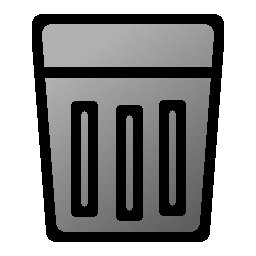
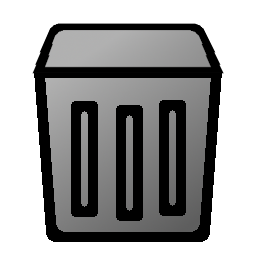
Updated requirements.py and added images

Changed region(s): [[0.125, 0.0312, 0.875, 0.2812]]

diff --git a/requirements.py b/requirements.py
@@ -1,22 +1,67 @@
-import sys, os, subprocess
+import sys, os, subprocess, re
 
-install_command = "{} -m pip install -r {}".format(
-    sys.executable,
-    os.environ.get("PyPI_REQUIREMENTS_PATH", os.path.realpath("requirements.txt"))
-)
+requirements_file_path = os.environ.get("PyPI_REQUIREMENTS_PATH", os.path.realpath("requirements.txt"))
 
-popen = subprocess.Popen(install_command,
-                         stdout=subprocess.PIPE,
-                         stderr=subprocess.PIPE,
-                         universal_newlines=True,
-                         shell=True)
+if not os.path.exists(requirements_file_path) or not os.path.isfile(requirements_file_path):
+    raise IOError("No requirements file was found at '{}'".format(requirements_file_path))
 
-for stdout_line in iter(popen.stdout.readline, ""):
-    if os.environ.get("PyPI_REQUIREMENTS_OUTPUT", "OFF").upper() == "ON": print(stdout_line, end="")
+requirements_file = open(requirements_file_path)
 
-for stdout_line in iter(popen.stderr.readline, ""):
-    if os.environ.get("PyPI_REQUIREMENTS_OUTPUT", "OFF").upper() == "ON": print(stdout_line, end="", file=sys.stderr)
+requirements_file_content = requirements_file.read()
+
+requirements_file.close()
+
+requirement_pattern = re.compile("^\\s*([A-z0-9.\\-_]+)\\s*(?:(==|<=|>=)\\s*((?:[0-9]+!)?[0-9]+(?:\\.[0-9]+)*(?:(?:a|b|rc)[0-9]+)?(?:\\.post[0-9]+)?(?:\\.dev[0-9]+)?)\\s*)?$", re.MULTILINE)
+
+requirements = requirement_pattern.findall(requirements_file_content)
+
+site_packages_folder = None
+
+for folder in sys.path:
+    if folder.endswith("site-packages"):
+        site_packages_folder = folder
+        break
+
+if not site_packages_folder:
+    raise IOError("site-packages folder not found")
+
+site_packages_dist_infos = tuple(filter(lambda x: x.endswith(".dist-info"), os.listdir(site_packages_folder)))
+
+installed_packages = {}
+
+for dist_info in site_packages_dist_infos:
+    dist_info = dist_info[:-len(".dist-info")]
+    dash_pos = dist_info.rindex("-")
+    version = dist_info[dash_pos + 1 : ]
+    package_name = dist_info[:dash_pos]
     
-popen.stdout.close()
+    installed_packages[package_name] = version
 
-popen.wait()
+need_to_run = False
+
+for package_name, operator, version in requirements:
+    if not package_name in installed_packages or (operator and version and installed_packages[package_name] != version):
+        need_to_run = True
+        break
+
+if need_to_run:
+    install_command = "{} -m pip install -r {}".format(
+        sys.executable,
+        requirements_file_path
+    )
+
+    popen = subprocess.Popen(install_command,
+                             stdout=subprocess.PIPE,
+                             stderr=subprocess.PIPE,
+                             universal_newlines=True,
+                             shell=True)
+
+    for stdout_line in iter(popen.stdout.readline, ""):
+        if os.environ.get("PyPI_REQUIREMENTS_OUTPUT", "OFF").upper() == "ON": print(stdout_line, end="")
+
+    for stdout_line in iter(popen.stderr.readline, ""):
+        if os.environ.get("PyPI_REQUIREMENTS_OUTPUT", "OFF").upper() == "ON": print(stdout_line, end="", file=sys.stderr)
+        
+    popen.stdout.close()
+
+    popen.wait()

diff --git a/irec_module/window.py b/irec_module/window.py
@@ -1028,7 +1028,12 @@ def edit_macro_dialog(mcr):
 
     def from_vk_code():
         global upscale
-        vk_code = string_to_vk_code(root.clipboard_get())
+        vk_code = None
+
+        try:
+            vk_code = string_to_vk_code(root.clipboard_get())
+        except:
+            pass
 
         if not vk_code:
             dialog_return = tkinter.StringVar()
@@ -1531,10 +1536,10 @@ def create_window():
     toolbar_frame = tkinter.Frame(frame)
     toolbar_frame.grid(column=1, row=0, columnspan=4)
 
-    record_macro_button = ttk.Button(toolbar_frame, command=record_macro_dialog, cursor=HAND_CURSOR)#ttk.Button(frame, text="Record macro", command=record_macro_dialog)
+    record_macro_button = ttk.Button(toolbar_frame, command=record_macro_dialog, takefocus=False, cursor=HAND_CURSOR)#ttk.Button(frame, text="Record macro", command=record_macro_dialog)
     record_macro_button.grid(column=0, row=0, padx=PADX * 2, pady=PADY)#, ipadx=IPADX, ipady=IPADY)
 
-    create_fast_button_image(record_macro_button, "rec.png")
+    create_fast_button_image(record_macro_button, "rec2.png")
 
     create_tooltip_for_button(root, "Record a macro", record_macro_button)
 
@@ -1555,7 +1560,7 @@ def create_window():
     create_macro_button = ttk.Button(toolbar_frame, command=create_macro, cursor=HAND_CURSOR)#ttk.Button(frame, text="Create macro", command=create_macro)
     create_macro_button.grid(column=1, row=0, padx=PADX * 2, pady=PADY)#, ipadx=IPADX, ipady=IPADY)
 
-    create_fast_button_image(create_macro_button, "add.png")
+    create_fast_button_image(create_macro_button, "add2.png")
 
     create_tooltip_for_button(root, "Create a macro", create_macro_button)
 
@@ -1574,7 +1579,7 @@ def create_window():
 
     disable_button(edit_macro_button)
 
-    create_fast_button_image(edit_macro_button, "edit.png")
+    create_fast_button_image(edit_macro_button, "edit2.png")
 
     create_tooltip_for_button(root, "Edit the selected macro", edit_macro_button)
 
@@ -1583,7 +1588,7 @@ def create_window():
 
     disable_button(delete_macro_button)
 
-    create_fast_button_image(delete_macro_button, "delete.png")
+    create_fast_button_image(delete_macro_button, "delete2.png")
 
     create_tooltip_for_button(root, "Delete the selected macro", delete_macro_button)
 
@@ -1691,7 +1696,7 @@ def create_window():
     play_macro_button.config(command=play_macro)
     play_macro_button.grid(column=0, row=3, columnspan=2, padx=PADX, pady=PADY)#, ipadx=IPADX, ipady=IPADY)
 
-    create_fast_button_image(play_macro_button, "play.png")
+    create_fast_button_image(play_macro_button, "play2.png")
 
     create_tooltip_for_button(root, "Play the selected macro", play_macro_button)
 

diff --git a/Irec.py b/Irec.py
@@ -24,6 +24,8 @@ os.environ["PyPI_REQUIREMENTS_OUTPUT"] = "ON"
 
 os.chdir(os.path.dirname(sys.argv[0]))
 
+import requirements
+
 try:
     import winput
     import PIL
@@ -31,7 +33,7 @@ try:
     assert hasattr(winput, "set_DPI_aware")
         
 except:
-    import requirements
+    sys.exit(-1)
 
 
 argv_short_to_long_dict = { "h" : "help", "?" : "help" }
